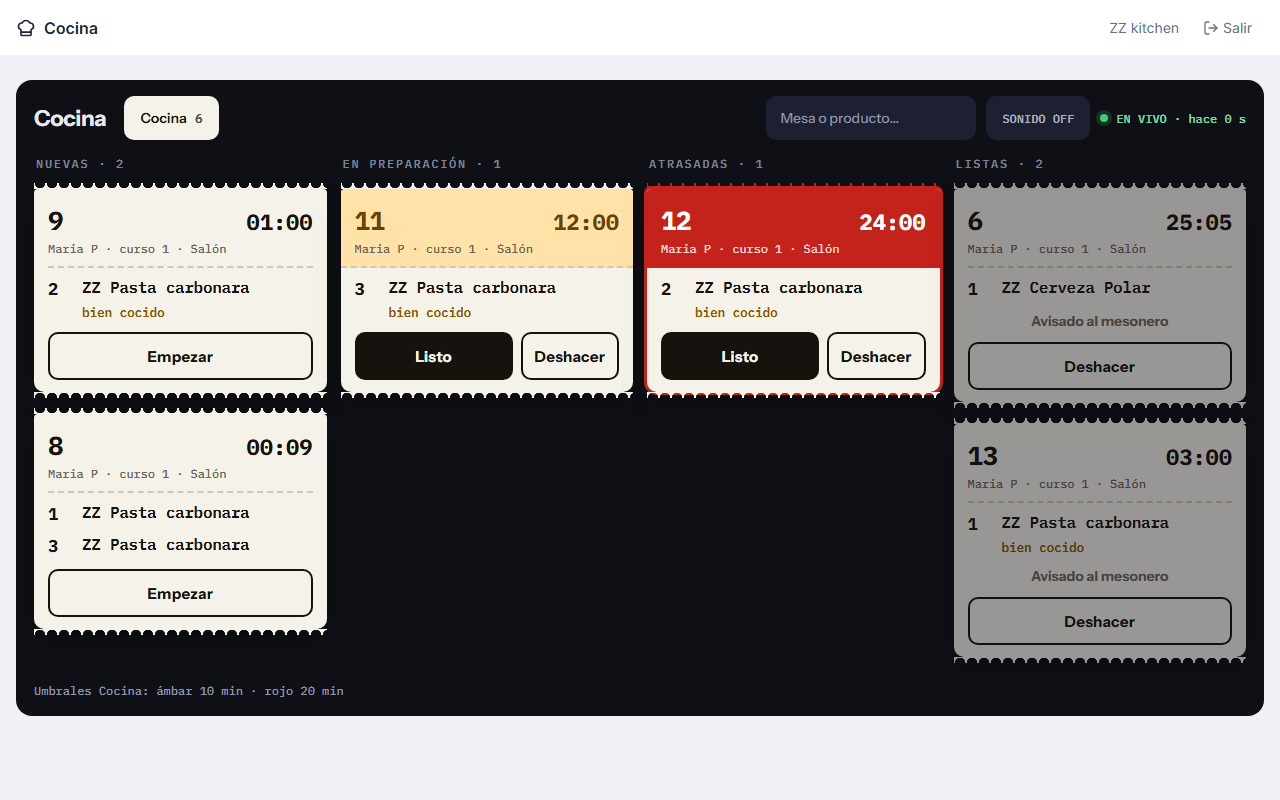
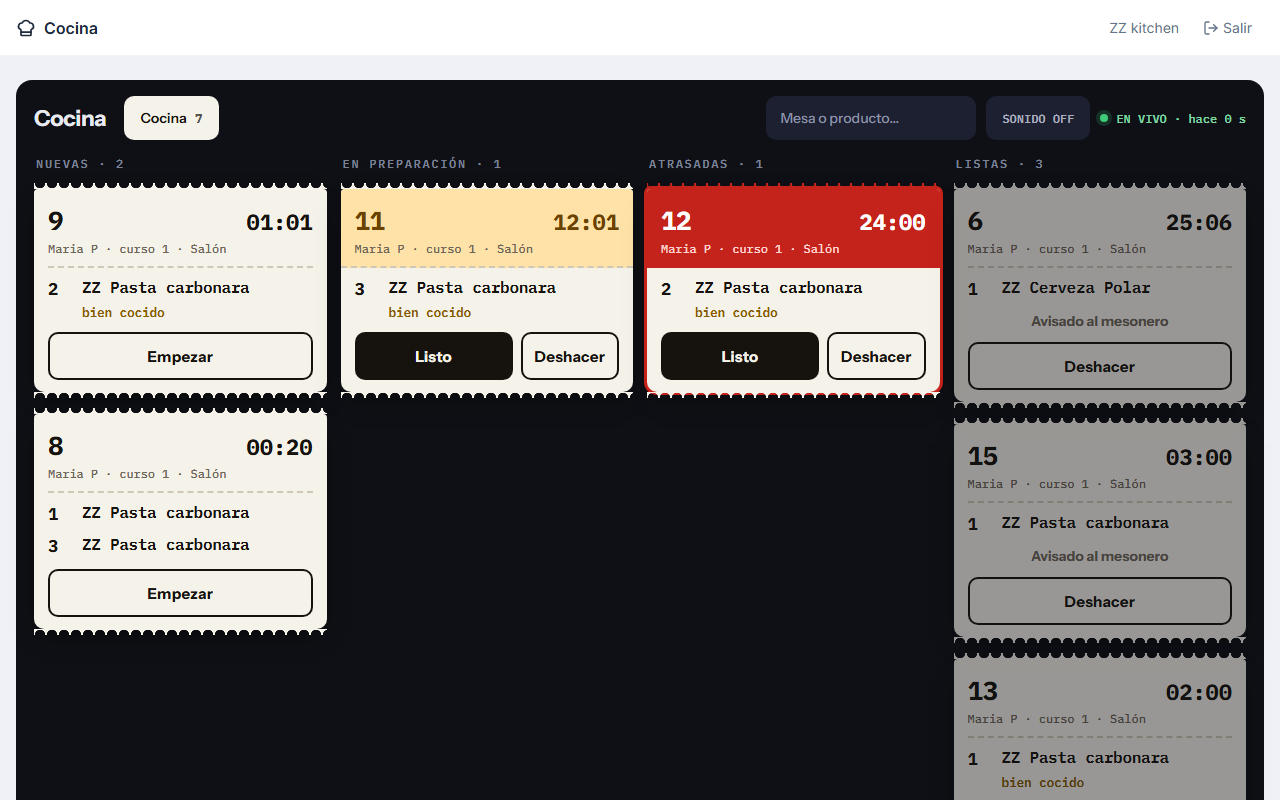
feat(restaurante): R3 KDS — "Listas" muestra el tiempo hasta que quedó lista
- Modificado: src/lib/restaurante-kds.ts → cada comanda lleva ready_at (último ítem listo); src/types/restaurante.ts → KdsTicketDTO.ready_at
- Modificado: EstacionKds.tsx → en "Listas" el reloj es envío→listo (fijo); sin ready_at cae al reloj corrido
- Sin migración: OrderItem.ready_at ya existía desde R1
- Creado: spec "Listas" (03:00 fijo tras 2,5 s); fixture de capturas con ready_at; capturas r3 regeneradas (título "Cocina" legible)
- Verificado: tsc 0 · build EXIT_REAL=0 · 46/46 specs de restaurante

🤖 Agente: CLI-KDS | Fase: R3 | Fecha: 2026-11-25

diff --git a/tests/restaurante-kds.spec.ts b/tests/restaurante-kds.spec.ts
@@ -251,6 +251,28 @@ test('sin flag · negocio sin Restaurante: /api/restaurante/kds es 404 y el KDS 
   await expect(page.getByRole('link', { name: 'Pedidos normales' })).toHaveCount(0)
 })
 
+test('Listas · muestra el tiempo hasta que quedó lista (fijo), no el reloj corrido desde el envío', async ({ page, context }) => {
+  await login(context, A, 'admin', admin)
+  const tid = (await body<{ tables: Array<{ id: number }> }>(await call(page, 'POST', '/api/restaurante/mesas', { area_id: areaId, label: '15', capacity: 2 }))).tables[0].id
+  const acc = (await body<{ account: { id: number } }>(await call(page, 'POST', '/api/restaurante/cuentas', { table_id: tid, guests: 1, waiter_id: waiter }))).account.id
+  await call(page, 'POST', `/api/restaurante/cuentas/${acc}/items`, { product_id: carta.pasta, quantity: 1 })
+  await call(page, 'POST', `/api/restaurante/cuentas/${acc}/enviar`, {})
+  // Enviada hace 5 min y lista hace 2: tardó 03:00 y ese número no debe seguir corriendo.
+  sql(`UPDATE order_items SET kds_status='ready', sent_at = UTC_TIMESTAMP(3) - INTERVAL 5 MINUTE, ready_at = UTC_TIMESTAMP(3) - INTERVAL 2 MINUTE, kds_updated_at = UTC_TIMESTAMP(3) WHERE order_id=${acc}`)
+
+  await login(context, A, 'kitchen', cook)
+  const t = (await board(page)).tickets.find(x => x.order_id === acc) as (Board['tickets'][number] & { ready_at: string | null; sent_at: string }) | undefined
+  expect(t?.ready_at).not.toBeNull()
+  expect((new Date(t?.ready_at ?? 0).getTime() - new Date(t?.sent_at ?? 0).getTime()) / 1000).toBeCloseTo(180, 0)
+
+  await page.goto('/kds')
+  const card = page.getByRole('article', { name: 'Comanda 15' })
+  await expect(card).toBeVisible({ timeout: 8_000 })
+  await expect(card).toContainText('03:00')
+  await page.waitForTimeout(2_500)
+  await expect(card).toContainText('03:00')
+})
+
 test('capturas · KDS 1280 y 375, sin conexión, config y cuenta', async ({ page, context }) => {
   // Más comandas con distintas edades para que el tablero muestre todo el lenguaje de color.
   await login(context, A, 'admin', admin)
@@ -259,7 +281,7 @@ test('capturas · KDS 1280 y 375, sin conexión, config y cuenta', async ({ page
     const acc = (await body<{ account: { id: number } }>(await call(page, 'POST', '/api/restaurante/cuentas', { table_id: tid, guests: 2, waiter_id: waiter }))).account.id
     await call(page, 'POST', `/api/restaurante/cuentas/${acc}/items`, { product_id: carta.pasta, quantity: qty, note: 'bien cocido' })
     await call(page, 'POST', `/api/restaurante/cuentas/${acc}/enviar`, {})
-    sql(`UPDATE order_items SET kds_status='${status}', sent_at = UTC_TIMESTAMP(3) - INTERVAL ${minutes} MINUTE, kds_updated_at = UTC_TIMESTAMP(3) WHERE order_id=${acc}`)
+    sql(`UPDATE order_items SET kds_status='${status}', sent_at = UTC_TIMESTAMP(3) - INTERVAL ${minutes} MINUTE, kds_updated_at = UTC_TIMESTAMP(3), ready_at = IF(kds_status='ready', UTC_TIMESTAMP(3) - INTERVAL 1 MINUTE, NULL) WHERE order_id=${acc}`)
   }
   await mesa('9', 1, 'sent', 2); await mesa('11', 12, 'preparing', 3); await mesa('12', 24, 'preparing', 2); await mesa('13', 3, 'ready', 1)
 

diff --git a/src/app/(dashboard)/kds/EstacionKds.tsx b/src/app/(dashboard)/kds/EstacionKds.tsx
@@ -36,6 +36,12 @@ const liveItems = (t: KdsTicketDTO): KdsItemDTO[] => t.items.filter(i => i.statu
 
 function elapsedMs(t: KdsTicketDTO, now: number): number { return Math.max(0, now - new Date(t.sent_at).getTime()) }
 
+/** Comanda lista: el tiempo que tardó (envío → listo), fijo. Sin ready_at registrado, cae al reloj corrido. */
+function shownMs(t: KdsTicketDTO, column: Column, now: number): number {
+  if (column === 'listas' && t.ready_at) return Math.max(0, new Date(t.ready_at).getTime() - new Date(t.sent_at).getTime())
+  return elapsedMs(t, now)
+}
+
 function clock(ms: number): string {
   const total = Math.floor(ms / 1000)
   return `${String(Math.floor(total / 60)).padStart(2, '0')}:${String(total % 60).padStart(2, '0')}`
@@ -70,7 +76,7 @@ interface TicketProps {
 }
 
 function Ticket({ ticket, column, station, now, queued, onAct, onFire }: TicketProps) {
-  const ms = elapsedMs(ticket, now)
+  const ms = shownMs(ticket, column, now)
   const warn = station !== undefined && column !== 'listas' && ms >= station.warn_min * 60_000
   const cls = [styles.tk, column === 'atrasadas' ? styles.late : warn ? styles.warn : '', column === 'listas' ? styles.done : ''].filter(Boolean).join(' ')
   const startable = ticket.items.find(i => i.status === 'sent' && !i.held)

diff --git a/src/lib/restaurante-kds.ts b/src/lib/restaurante-kds.ts
@@ -336,9 +336,15 @@ export async function loadBoard(db: TenantPrisma, businessId: number, access: Kd
     } else {
       tickets.set(key, {
         order_id: it.order_id, station_id: it.station_id ?? 0, order_number: it.order.order_number, table_label: it.order.table?.label ?? null,
-        area_name: it.order.table?.area.name ?? null, waiter_name: it.order.waiter?.name ?? null, sent_at: sentAt, items: [dto],
+        area_name: it.order.table?.area.name ?? null, waiter_name: it.order.waiter?.name ?? null, sent_at: sentAt, ready_at: null, items: [dto],
       })
     }
+  }
+  // Hora en que quedó lista: la del último ítem listo (todos los vivos lo están cuando la comanda cae en "Listas").
+  for (const it of items) {
+    const t = tickets.get(`${it.order_id}:${it.station_id}`)
+    const at = it.kds_status === 'ready' && it.ready_at ? it.ready_at.toISOString() : null
+    if (t && at && (t.ready_at === null || at > t.ready_at)) t.ready_at = at
   }
   const sorted = Array.from(tickets.values()).sort((a, b) => a.sent_at.localeCompare(b.sent_at))
   for (const t of sorted) t.items.sort((a, b) => a.course - b.course || a.id - b.id)

diff --git a/src/types/restaurante.ts b/src/types/restaurante.ts
@@ -194,6 +194,8 @@ export interface KdsTicketDTO {
   waiter_name:  string | null
   /** ISO 8601: el envío más antiguo de los ítems que siguen en preparación. */
   sent_at:      string
+  /** ISO 8601: cuándo quedó lista la comanda (el último ítem listo); null si aún no o si no se registró. */
+  ready_at:     string | null
   items:        KdsItemDTO[]
 }
 
